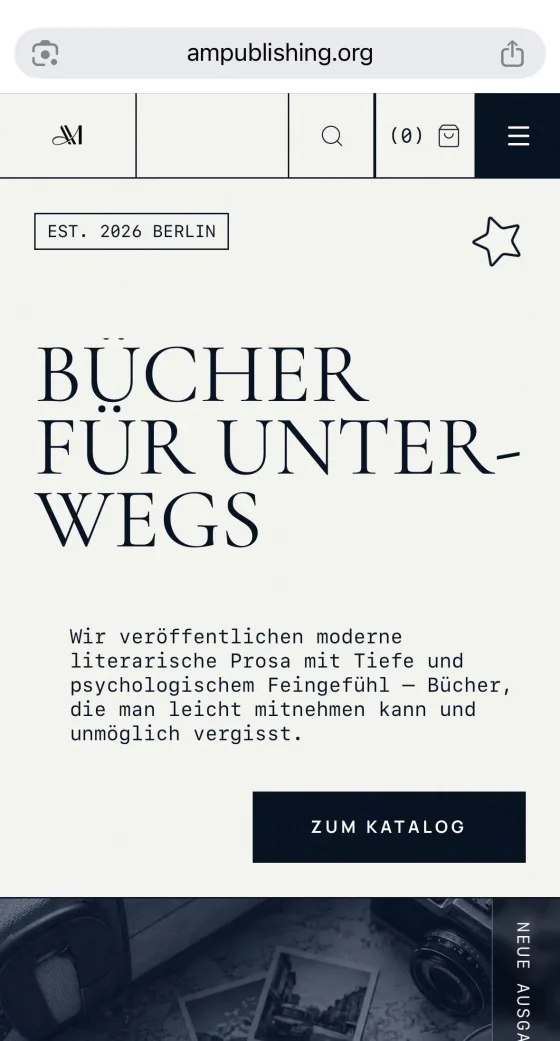
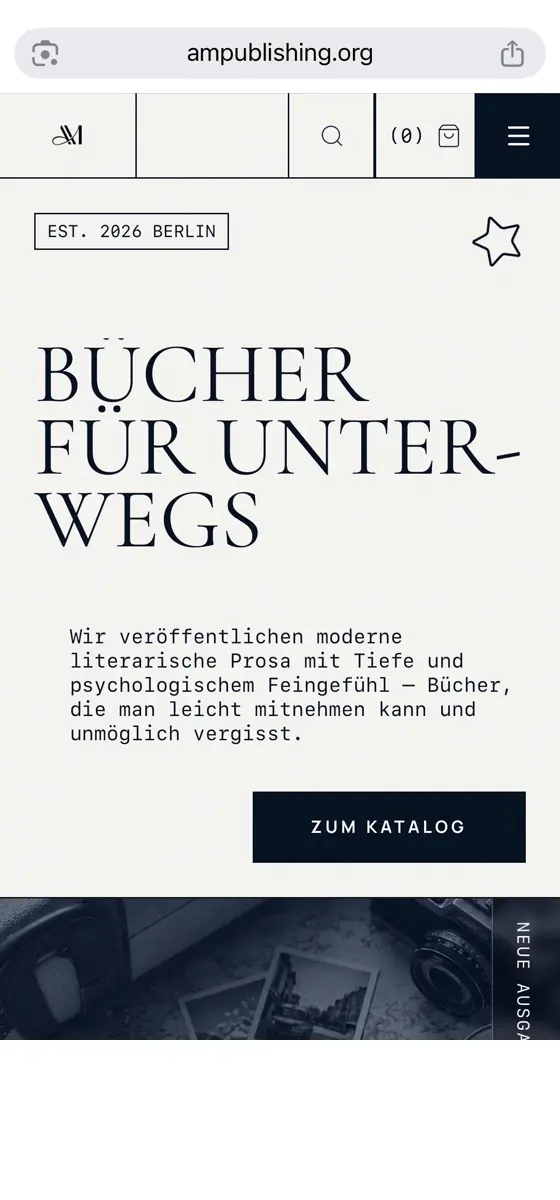
Polish agency portfolio presentation

diff --git a/i18n.js b/i18n.js
@@ -42,25 +42,25 @@ const translations = {
     works_sub: "Живі продукти, якими користуються щодня.",
     works_visit: "Відкрити",
     p1_cat: "Radio · WebRTC",
-    p1_desc: "Flask + React + WebRTC: ведучий мовить наживо, слухачі підключаються без мікрофона — будь-який гість може піднятись в ефір. Жодних алгоритмів. Тільки живі голоси.",
+    p1_desc: "Онлайн-радіо з прямим ефіром, розкладом, чатом і гостьовими включеннями. Слухач може перейти в ефір прямо з браузера, а редакція керує програмою з адмін-панелі.",
     p2_cat: "EdTech · SaaS",
-    p2_desc: "51 готовий інструмент для ESL-вчителів: генератор вправ і тестів, словникові картки, таймер уроку. Живий SaaS — щодня у вчителів.",
-    p3_cat: "Media · AI",
-    p3_desc: "AI-lifestyle медіа: матеріали з дизайну та культури — автоматизована редакція на Claude. Matter Lab, Interior Studio, Chronicle.",
+    p2_desc: "Освітня платформа для ESL-викладачів: генератори вправ, тести, словникові картки, таймер уроку і швидкий старт заняття з будь-якого пристрою.",
+    p3_cat: "Media · Editorial",
+    p3_desc: "Онлайн-журнал про дизайн, подорожі та інтер'єри: редакційна сітка, випуски, матеріали й візуальна подача, у якій контент виглядає як повноцінне медіа, а не блог.",
     p4_cat: "FinTech · Tools",
-    p4_desc: "Персональний фінансовий дашборд: конвертер валют, кредитний калькулятор, трекер витрат. Без реклами і зовнішніх залежностей.",
+    p4_desc: "Персональний фінансовий кабінет: конвертер валют, кредитний калькулятор, облік витрат і зрозуміла навігація для щоденних фінансових рішень.",
     p5_cat: "Publishing · Shop",
-    p5_desc: "Книжкове видавництво з Берліна: вітрина каталогу, кошик і сторінки книг. Сучасна літературна проза — магазин на власному домені.",
+    p5_desc: "Сайт берлінського видавництва: каталог книжок, кошик, сторінки авторів, юридичні розділи й редакційна подача, що підтримує характер літературного бренду.",
     p6_cat: "Retail · ERP",
-    p6_desc: "ERP для магазину брендового одягу: власний каталог з XLS-виписок, матриця розмірів S–XXL, управління залишками — замість WooCommerce.",
+    p6_desc: "Операційна система для магазину одягу: каталог із XLS-виписок, розмірна сітка S-XXL, залишки, замовлення і керування асортиментом без зайвих сервісів.",
     p7_cat: "Publishing · Games",
-    p7_desc: "Видавництво настільних ігор: сайт-візитівка з каталогом ігор та ілюстрованими обкладинками. Статичне, швидке, на власному домені.",
-    p8_cat: "E-commerce · AI",
-    p8_desc: "AI-магазин предметів інтер'єру: мудборди, добірки товарів і сторінки продуктів. Автоматична генерація контенту на Claude.",
+    p7_desc: "Сайт видавництва настільних ігор: чистий каталог, акцент на обкладинках, зрозумілі сторінки продуктів і швидке статичне завантаження.",
+    p8_cat: "E-commerce · Interiors",
+    p8_desc: "Вітрина предметів інтер'єру для EPRIS: добірки товарів, moodboard-логіка, картки продуктів і спокійний журнальний ритм замість шаблонного магазину.",
     p9_cat: "Nonprofit · Web",
-    p9_desc: "Сайт благодійної екосистеми підтримки дітей та молоді (з 1993). Принципи, звітність і напрями — чиста подача, орієнтована на довіру.",
+    p9_desc: "Сайт благодійної екосистеми Help Us Help: історія, принципи, напрями роботи й проекти подані спокійно, прозоро і з фокусом на довіру.",
     p10_cat: "Culture · Archive",
-    p10_desc: "Цифровий архів-меморіал міста: панорами, історія, галереї «тоді / зараз». Двомовний лонгрід про Донецьк до війни.",
+    p10_desc: "Міський цифровий архів: панорами, історія, галереї «тоді / зараз» і двомовний лонгрід про Донецьк до війни.",
     how_tag: "Процес",
     how_l1: "Як це",
     how_l2: "працює",
@@ -140,25 +140,25 @@ const translations = {
     works_sub: "Live products used every day.",
     works_visit: "Open",
     p1_cat: "Radio · WebRTC",
-    p1_desc: "Flask + React + WebRTC: host streams live, listeners join without a mic — any guest can unmute and go on air. No algorithms. Just live voices.",
+    p1_desc: "Live radio platform with schedule, chat and guest call-ins. A listener can join the broadcast from the browser, while the team manages programming from an admin panel.",
     p2_cat: "EdTech · SaaS",
-    p2_desc: "51 ready-made tools for ESL teachers: exercise & test generator, vocabulary cards, lesson timer. Live SaaS — used by teachers every day.",
-    p3_cat: "Media · AI",
-    p3_desc: "AI-powered lifestyle media: design and culture articles with automated editorial on Claude. Matter Lab, Interior Studio, Chronicle.",
+    p2_desc: "Education workspace for ESL teachers: exercise generators, tests, vocabulary cards, lesson timer and a fast class-start flow across devices.",
+    p3_cat: "Media · Editorial",
+    p3_desc: "Online magazine for design, travel and interiors: editorial grids, issues, articles and a visual system that feels like a real publication, not a loose blog.",
     p4_cat: "FinTech · Tools",
-    p4_desc: "Personal finance dashboard: currency converter, loan calculator, expense tracker. No ads, no external dependencies.",
+    p4_desc: "Personal finance cabinet: currency converter, loan calculator, expense tracking and clear navigation for everyday money decisions.",
     p5_cat: "Publishing · Shop",
-    p5_desc: "A Berlin book publisher: catalogue storefront, cart and book pages. Modern literary prose — a shop on its own domain.",
+    p5_desc: "Website for a Berlin publisher: book catalogue, cart, author pages, legal sections and an editorial presentation that supports the literary brand.",
     p6_cat: "Retail · ERP",
-    p6_desc: "ERP for a branded clothing store: own catalogue from XLS exports, size matrix S–XXL, stock management — replacing WooCommerce.",
+    p6_desc: "Operating system for a clothing store: catalogue from XLS exports, S-XXL size matrix, inventory, orders and assortment control without extra platforms.",
     p7_cat: "Publishing · Games",
-    p7_desc: "A board-game publisher: a showcase site with a game catalogue and illustrated covers. Static, fast, on its own domain.",
-    p8_cat: "E-commerce · AI",
-    p8_desc: "AI interior-goods shop: moodboards, curated product sets and product pages. Content generated automatically on Claude.",
+    p7_desc: "Board-game publisher website: clean catalogue, cover-led product pages and fast static delivery on its own domain.",
+    p8_cat: "E-commerce · Interiors",
+    p8_desc: "Interior-goods storefront for EPRIS: curated selections, moodboard logic, product cards and a calm magazine rhythm instead of a generic shop.",
     p9_cat: "Nonprofit · Web",
-    p9_desc: "Site for a charity ecosystem supporting kids and youth (since 1993). Principles, reporting and programs — a clean, trust-first presentation.",
+    p9_desc: "Website for the Help Us Help charity ecosystem: history, principles, programs and projects presented calmly, transparently and with trust first.",
     p10_cat: "Culture · Archive",
-    p10_desc: "A digital memorial archive of the city: panoramas, history, then / now galleries. A bilingual longread about pre-war Donetsk.",
+    p10_desc: "Digital city archive: panoramas, history, then / now galleries and a bilingual longread about pre-war Donetsk.",
     how_tag: "Process",
     how_l1: "How it",
     how_l2: "works",
@@ -238,25 +238,25 @@ const translations = {
     works_sub: "Live-Produkte, täglich im Einsatz.",
     works_visit: "Öffnen",
     p1_cat: "Radio · WebRTC",
-    p1_desc: "Flask + React + WebRTC: Moderator sendet live, Hörer schalten sich ohne Mikrofon dazu — jeder Gast kann auf Sendung gehen. Keine Algorithmen. Nur echte Stimmen.",
+    p1_desc: "Live-Radio-Plattform mit Sendeplan, Chat und Gastzuschaltungen. Hörer können direkt im Browser auf Sendung gehen, während das Team das Programm im Adminbereich steuert.",
     p2_cat: "EdTech · SaaS",
-    p2_desc: "51 fertige Tools für ESL-Lehrer: Übungs- und Testgenerator, Vokabelkarten, Unterrichtstimer. Live-SaaS — täglich von Lehrern genutzt.",
-    p3_cat: "Media · AI",
-    p3_desc: "KI-gestütztes Lifestyle-Magazin: Design- und Kulturartikel mit automatisierter Redaktion via Claude. Matter Lab, Interior Studio, Chronicle.",
+    p2_desc: "Arbeitsplattform für ESL-Lehrer: Übungsgeneratoren, Tests, Vokabelkarten, Unterrichtstimer und ein schneller Start in die Stunde auf jedem Gerät.",
+    p3_cat: "Media · Editorial",
+    p3_desc: "Online-Magazin für Design, Reisen und Interieur: redaktionelle Raster, Ausgaben, Artikel und eine visuelle Sprache, die wie eine echte Publikation wirkt.",
     p4_cat: "FinTech · Tools",
-    p4_desc: "Persönliches Finanz-Dashboard: Währungsumrechner, Kreditkalkulator, Ausgaben-Tracker. Ohne Werbung und externe Abhängigkeiten.",
+    p4_desc: "Persönliches Finanz-Cockpit: Währungsumrechner, Kreditrechner, Ausgabenübersicht und klare Navigation für alltägliche Finanzentscheidungen.",
     p5_cat: "Publishing · Shop",
-    p5_desc: "Ein Berliner Buchverlag: Katalog-Storefront, Warenkorb und Buchseiten. Moderne literarische Prosa — ein Shop auf eigener Domain.",
+    p5_desc: "Website für einen Berliner Verlag: Buchkatalog, Warenkorb, Autorenseiten, rechtliche Bereiche und eine redaktionelle Präsentation passend zur literarischen Marke.",
     p6_cat: "Retail · ERP",
-    p6_desc: "ERP für einen Markenmodeshop: eigener Katalog aus XLS-Exporten, Größenmatrix S–XXL, Bestandsverwaltung — ersetzt WooCommerce.",
+    p6_desc: "Betriebssystem für einen Modeshop: Katalog aus XLS-Exporten, Größenmatrix S-XXL, Lagerbestand, Bestellungen und Sortimentspflege ohne zusätzliche Plattformen.",
     p7_cat: "Publishing · Games",
-    p7_desc: "Ein Brettspielverlag: eine Schaufenster-Website mit Spielkatalog und illustrierten Covern. Statisch, schnell, auf eigener Domain.",
-    p8_cat: "E-commerce · AI",
-    p8_desc: "KI-Shop für Interieur-Objekte: Moodboards, kuratierte Produktsets und Produktseiten. Inhalte automatisch via Claude generiert.",
+    p7_desc: "Website für einen Brettspielverlag: klarer Katalog, Cover im Mittelpunkt, verständliche Produktseiten und schnelle statische Auslieferung.",
+    p8_cat: "E-commerce · Interiors",
+    p8_desc: "Interieur-Storefront für EPRIS: kuratierte Auswahl, Moodboard-Logik, Produktkarten und ein ruhiger Magazinrhythmus statt generischem Shop.",
     p9_cat: "Nonprofit · Web",
-    p9_desc: "Website eines Hilfs-Ökosystems für Kinder und Jugendliche (seit 1993). Prinzipien, Berichte und Programme — klar und vertrauensorientiert.",
+    p9_desc: "Website für das Help-Us-Help-Ökosystem: Geschichte, Prinzipien, Arbeitsbereiche und Projekte ruhig, transparent und vertrauensorientiert präsentiert.",
     p10_cat: "Culture · Archive",
-    p10_desc: "Ein digitales Gedenkarchiv der Stadt: Panoramen, Geschichte, Damals-/Heute-Galerien. Ein zweisprachiger Longread über das Donezk vor dem Krieg.",
+    p10_desc: "Digitales Stadtarchiv: Panoramen, Geschichte, Damals-/Heute-Galerien und ein zweisprachiger Longread über das Donezk vor dem Krieg.",
     how_tag: "Ablauf",
     how_l1: "So funktioniert",
     how_l2: "es",
@@ -336,25 +336,25 @@ const translations = {
     works_sub: "Żywe produkty używane każdego dnia.",
     works_visit: "Otwórz",
     p1_cat: "Radio · WebRTC",
-    p1_desc: "Flask + React + WebRTC: prowadzący nadaje na żywo, słuchacze łączą się bez mikrofonu — każdy gość może wejść na antenę. Żadnych algorytmów. Tylko żywe głosy.",
+    p1_desc: "Platforma radia na żywo z ramówką, czatem i wejściami gości. Słuchacz może wejść na antenę z przeglądarki, a zespół prowadzi program z panelu admina.",
     p2_cat: "EdTech · SaaS",
-    p2_desc: "51 gotowych narzędzi dla nauczycieli ESL: generator ćwiczeń i testów, fiszki, timer lekcji. Żywy SaaS — używany przez nauczycieli każdego dnia.",
-    p3_cat: "Media · AI",
-    p3_desc: "AI-lifestyle magazine: artykuły o designie i kulturze z automatyczną redakcją na Claude. Matter Lab, Interior Studio, Chronicle.",
+    p2_desc: "Platforma dla nauczycieli ESL: generatory ćwiczeń, testy, fiszki, timer lekcji i szybki start zajęć na każdym urządzeniu.",
+    p3_cat: "Media · Editorial",
+    p3_desc: "Magazyn online o designie, podróżach i wnętrzach: siatka redakcyjna, wydania, artykuły i wizualny system, który wygląda jak pełnoprawne medium.",
     p4_cat: "FinTech · Tools",
-    p4_desc: "Osobisty dashboard finansowy: przelicznik walut, kalkulator kredytowy, tracker wydatków. Bez reklam i zewnętrznych zależności.",
+    p4_desc: "Osobisty panel finansowy: przelicznik walut, kalkulator kredytu, kontrola wydatków i czytelna nawigacja do codziennych decyzji finansowych.",
     p5_cat: "Publishing · Shop",
-    p5_desc: "Berliński wydawca książek: witryna katalogu, koszyk i strony książek. Współczesna proza literacka — sklep na własnej domenie.",
+    p5_desc: "Strona berlińskiego wydawnictwa: katalog książek, koszyk, strony autorów, sekcje prawne i redakcyjna prezentacja wspierająca literacką markę.",
     p6_cat: "Retail · ERP",
-    p6_desc: "ERP dla sklepu odzieży markowej: własny katalog z eksportów XLS, matryca rozmiarów S–XXL, zarządzanie stanami — zamiast WooCommerce.",
+    p6_desc: "System operacyjny sklepu odzieżowego: katalog z eksportów XLS, matryca rozmiarów S-XXL, stany, zamówienia i zarządzanie asortymentem bez dodatkowych platform.",
     p7_cat: "Publishing · Games",
-    p7_desc: "Wydawca gier planszowych: witryna z katalogiem gier i ilustrowanymi okładkami. Statyczna, szybka, na własnej domenie.",
-    p8_cat: "E-commerce · AI",
-    p8_desc: "AI-sklep z artykułami wnętrzarskimi: moodboardy, wyselekcjonowane zestawy i strony produktów. Treści generowane automatycznie na Claude.",
+    p7_desc: "Strona wydawcy gier planszowych: czysty katalog, okładki w centrum uwagi, zrozumiałe strony produktów i szybkie statyczne ładowanie.",
+    p8_cat: "E-commerce · Interiors",
+    p8_desc: "Witryna produktów wnętrzarskich dla EPRIS: selekcje, logika moodboardów, karty produktów i spokojny rytm magazynu zamiast typowego sklepu.",
     p9_cat: "Nonprofit · Web",
-    p9_desc: "Strona charytatywnego ekosystemu wsparcia dzieci i młodzieży (od 1993). Zasady, raportowanie i programy — czysta, budująca zaufanie prezentacja.",
+    p9_desc: "Strona ekosystemu Help Us Help: historia, zasady, obszary pracy i projekty pokazane spokojnie, przejrzyście i z naciskiem na zaufanie.",
     p10_cat: "Culture · Archive",
-    p10_desc: "Cyfrowe archiwum-memoriał miasta: panoramy, historia, galerie „wtedy / teraz”. Dwujęzyczny longread o Doniecku sprzed wojny.",
+    p10_desc: "Cyfrowe archiwum miasta: panoramy, historia, galerie „wtedy / teraz” i dwujęzyczny longread o Doniecku sprzed wojny.",
     how_tag: "Proces",
     how_l1: "Jak to",
     how_l2: "działa",

diff --git a/style.css b/style.css
@@ -1404,7 +1404,9 @@ button:focus-visible, a:focus-visible {
 
 /* ─── PORTFOLIO (warm cream section, colored dark tiles) ─── */
 .portfolio-section {
-  background: #eae5da;
+  background:
+    radial-gradient(circle at 50% 0%, rgba(255,255,255,0.58) 0%, rgba(255,255,255,0) 42%),
+    linear-gradient(180deg, #ece7dc 0%, #e4ddcf 100%);
   color: var(--black);
 }
 .portfolio-section .section-tag-light { color: rgba(0,0,0,0.38); }
@@ -1656,7 +1658,7 @@ button:focus-visible, a:focus-visible {
 .pgal {
   display: flex;
   flex-direction: column;
-  gap: clamp(40px, 6vw, 84px);
+  gap: clamp(52px, 7vw, 96px);
   margin-top: clamp(40px, 5vw, 64px);
 }
 
@@ -1667,8 +1669,8 @@ button:focus-visible, a:focus-visible {
    and any short final row simply left-aligns, never floats centered. */
 .pg-phones {
   display: grid;
-  grid-template-columns: repeat(auto-fill, minmax(240px, 1fr));
-  gap: clamp(18px, 2.2vw, 36px);
+  grid-template-columns: repeat(4, minmax(0, 1fr));
+  gap: clamp(22px, 2.4vw, 42px);
   align-items: start;
 }
 
@@ -1687,11 +1689,14 @@ button:focus-visible, a:focus-visible {
   width: 100%;
   display: flex;
   flex-direction: column;
+  min-width: 0;
 }
 
 .pg-device { transition: transform .45s cubic-bezier(.4,0,.2,1), box-shadow .45s cubic-bezier(.4,0,.2,1); }
 
 .pg-phone {
+  width: min(100%, 280px);
+  margin-inline: auto;
   padding: 8px;
   border-radius: 38px;
   background: linear-gradient(160deg, #2b2b2e 0%, #161617 60%, #101011 100%);
@@ -1712,6 +1717,11 @@ button:focus-visible, a:focus-visible {
 .pg-card:hover .pg-phone {
   transform: translateY(-10px);
   box-shadow: 0 48px 80px -28px rgba(0,0,0,0.85), inset 0 0 0 1.5px rgba(255,255,255,0.06);
+}
+
+.pg-card--ampublishing .pg-screen,
+.pg-card--help .pg-screen {
+  background: #fff;
 }
 
 /* ── Browser case (landscape, full-width) ── */
@@ -1760,7 +1770,11 @@ button:focus-visible, a:focus-visible {
 
 /* ── Info block ── */
 .pg-info { display: flex; flex-direction: column; }
-.pg-card .pg-info { padding: 22px 4px 0; }
+.pg-card .pg-info {
+  flex: 1;
+  padding: 24px 4px 0;
+  min-height: 264px;
+}
 
 .pg-head { display: flex; align-items: center; gap: 14px; margin-bottom: 16px; }
 /* NOTE: portfolio section sits on the light cream background
@@ -1794,15 +1808,24 @@ button:focus-visible, a:focus-visible {
   font-size: 14px; line-height: 1.62;
   color: rgba(0,0,0,0.66);
   margin-top: 16px;
+  max-width: 34ch;
+  min-height: 6.5em;
 }
-.pg-case .pg-desc { font-size: 16px; max-width: 46ch; }
+.pg-case .pg-desc {
+  font-size: 16px;
+  max-width: 46ch;
+  min-height: 0;
+}
 .pg-link {
   align-self: flex-start;
-  margin-top: 22px;
+  margin-top: auto;
   position: relative; z-index: 2;
   font-size: 13px; letter-spacing: 0.02em;
   color: rgba(0,0,0,0.82);
   border: 1px solid rgba(0,0,0,0.22);
+  min-height: 42px;
+  display: inline-flex;
+  align-items: center;
   padding: 9px 22px; border-radius: 40px;
   transition: background .25s, border-color .25s, color .25s;
 }
@@ -1824,9 +1847,22 @@ button:focus-visible, a:focus-visible {
   .pg-case .pg-desc { max-width: none; }
   .pg-case .pg-name { font-size: clamp(26px, 6vw, 34px); }
 }
+
+@media (max-width: 1180px) {
+  .pg-phones { grid-template-columns: repeat(2, minmax(0, 1fr)); }
+  .pg-phone { width: min(100%, 300px); }
+  .pg-card .pg-info { min-height: 0; }
+  .pg-desc {
+    max-width: 44ch;
+    min-height: 0;
+  }
+}
+
 /* On phones a single column can make the device very tall — narrow the
    grid track so one column comfortably fills the width, aligned to edges. */
-@media (max-width: 520px) {
+@media (max-width: 640px) {
   .pg-phones { grid-template-columns: 1fr; }
-  .pg-phone .pg-screen { aspect-ratio: 9 / 18; }
+  .pg-phone { width: min(100%, 290px); }
+  .pg-phone .pg-screen { aspect-ratio: 9 / 19.3; }
+  .pg-link { min-height: 44px; }
 }

diff --git a/index.html b/index.html
@@ -331,7 +331,7 @@
           <a class="pg-cover" href="https://eprisjournal.com" target="_blank" rel="noopener noreferrer" aria-label="EPRIS Journal"></a>
           <div class="pg-device pg-phone"><div class="pg-screen"><img src="works/epris.webp" alt="EPRIS Journal" loading="lazy" /></div></div>
           <div class="pg-info">
-            <div class="pg-head"><span class="pg-num">03</span><span class="pg-cat" data-i18n="p3_cat">Media · AI</span></div>
+            <div class="pg-head"><span class="pg-num">03</span><span class="pg-cat" data-i18n="p3_cat">Media · Editorial</span></div>
             <em class="pg-name">EPRIS Journal</em>
             <span class="pg-url">eprisjournal.com</span>
             <p class="pg-desc" data-i18n="p3_desc"></p>
@@ -353,7 +353,7 @@
         </article>
 
         <!-- 05 · AM Publishing -->
-        <article class="pg-card reveal">
+        <article class="pg-card pg-card--ampublishing reveal">
           <a class="pg-cover" href="https://ampublishing.org" target="_blank" rel="noopener noreferrer" aria-label="AM Publishing"></a>
           <div class="pg-device pg-phone"><div class="pg-screen"><img src="works/ampublishing.webp" alt="AM Publishing" loading="lazy" /></div></div>
           <div class="pg-info">
@@ -404,7 +404,7 @@
           <a class="pg-cover" href="https://eprisjournal.com/design" target="_blank" rel="noopener noreferrer" aria-label="EPRIS Design"></a>
           <div class="pg-device pg-phone"><div class="pg-screen"><img src="works/eprisdesign.webp" alt="EPRIS Design" loading="lazy" /></div></div>
           <div class="pg-info">
-            <div class="pg-head"><span class="pg-num">08</span><span class="pg-cat" data-i18n="p8_cat">E-commerce · AI</span></div>
+            <div class="pg-head"><span class="pg-num">08</span><span class="pg-cat" data-i18n="p8_cat">E-commerce · Interiors</span></div>
             <em class="pg-name">EPRIS Design</em>
             <span class="pg-url">eprisjournal.com/design</span>
             <p class="pg-desc" data-i18n="p8_desc"></p>
@@ -413,7 +413,7 @@
         </article>
 
         <!-- 09 · Help Us Help -->
-        <article class="pg-card reveal">
+        <article class="pg-card pg-card--help reveal">
           <a class="pg-cover" href="https://helpushelp.com.ua" target="_blank" rel="noopener noreferrer" aria-label="Help Us Help"></a>
           <div class="pg-device pg-phone"><div class="pg-screen"><img src="works/helpushelp.webp" alt="Help Us Help" loading="lazy" /></div></div>
           <div class="pg-info">